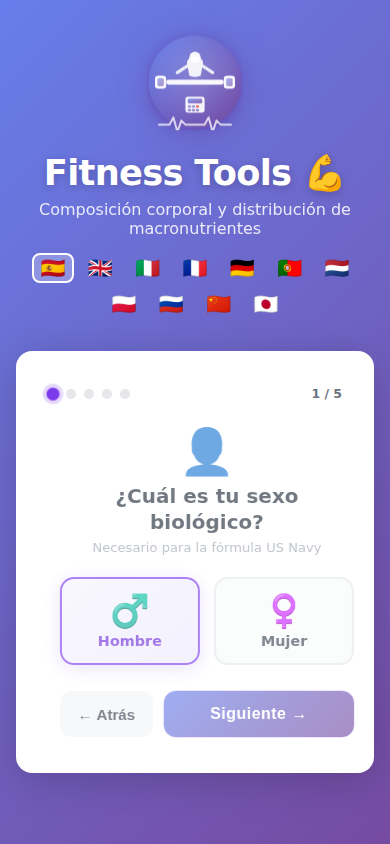
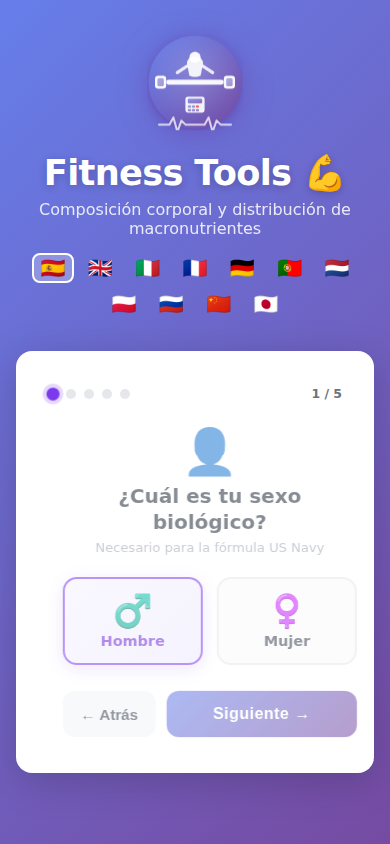
fix: move Start button above FAQ section so it's visible on first screen
Agent-Logs-Url: https://github.com/juanfranciscofernandezherreros/fitness-calculator-tool-apk/sessions/d02c89f7-d02c-43c0-b553-35cbb4fd0130

diff --git a/www/index.html b/www/index.html
@@ -701,7 +701,7 @@
     /* ── FAQ inside wizard card (step 0, white background) ── */
     .wstep-0 .faq-section {
       width: 100%;
-      margin-top: 0;
+      margin-top: 1.4rem;
     }
     .wstep-0 .faq-section-heading {
       color: #374151;
@@ -1048,6 +1048,8 @@
         <h2 class="wstep-question" data-i18n="welcome_title">Fitness Tools</h2>
         <p class="wstep-sub" data-i18n="subtitle">Composición corporal y distribución de macronutrientes</p>
 
+        <button type="button" class="btn-next-solo" onclick="wizardGoTo(1)" data-i18n="btn_start">🚀 Comenzar →</button>
+
         <!-- FAQ Section -->
         <section class="faq-section no-print" aria-label="FAQ">
           <div class="faq-section-heading">
@@ -1154,8 +1156,6 @@
             </div>
           </div>
         </section>
-
-        <button type="button" class="btn-next-solo" onclick="wizardGoTo(1)" data-i18n="btn_start">🚀 Comenzar →</button>
       </div>
 
       <!-- ── Step 1: Gender ── -->
